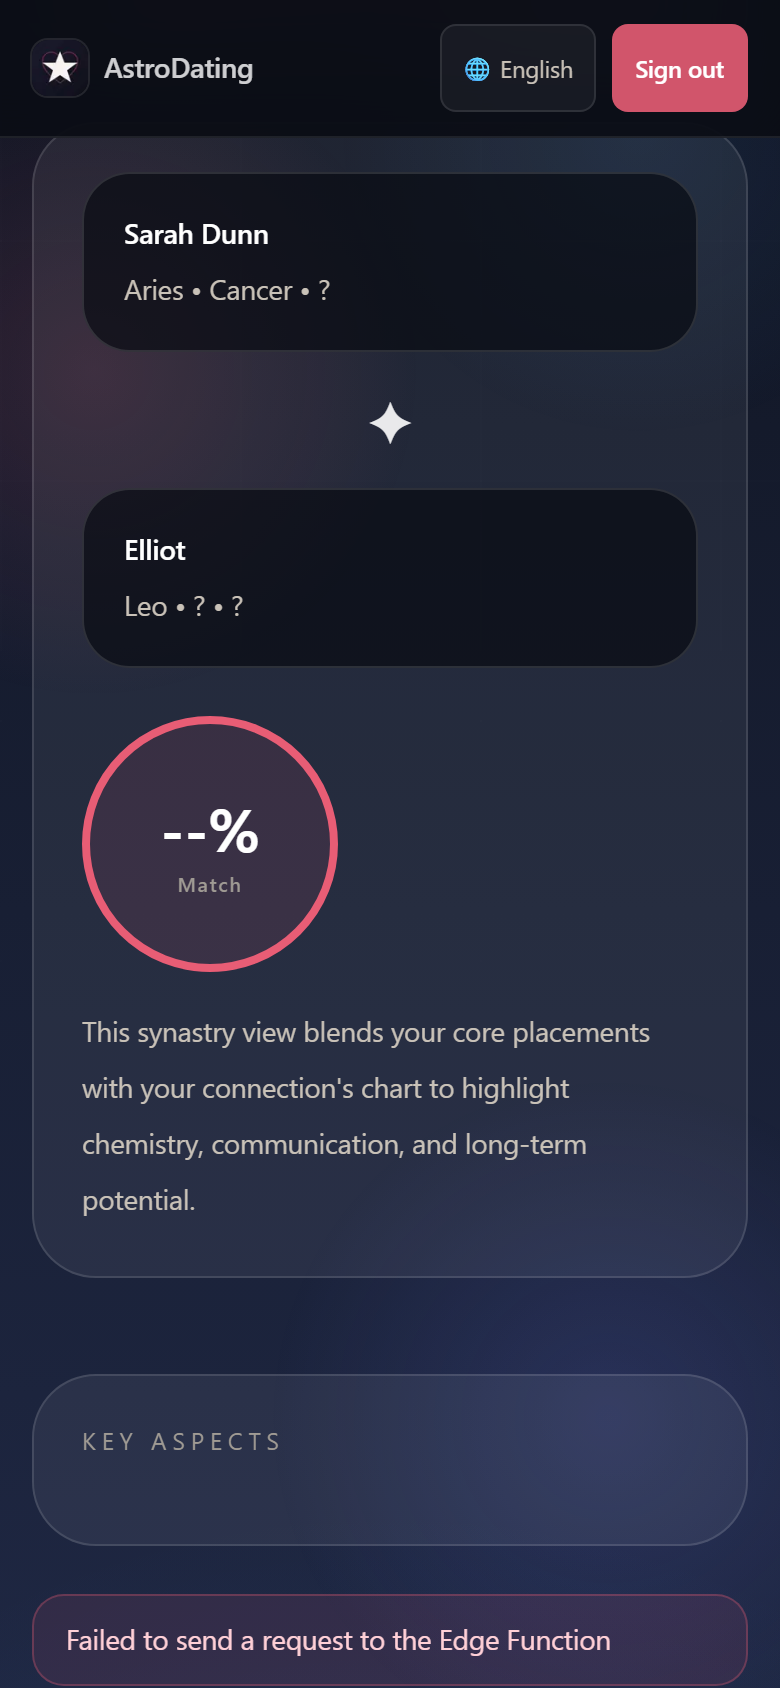
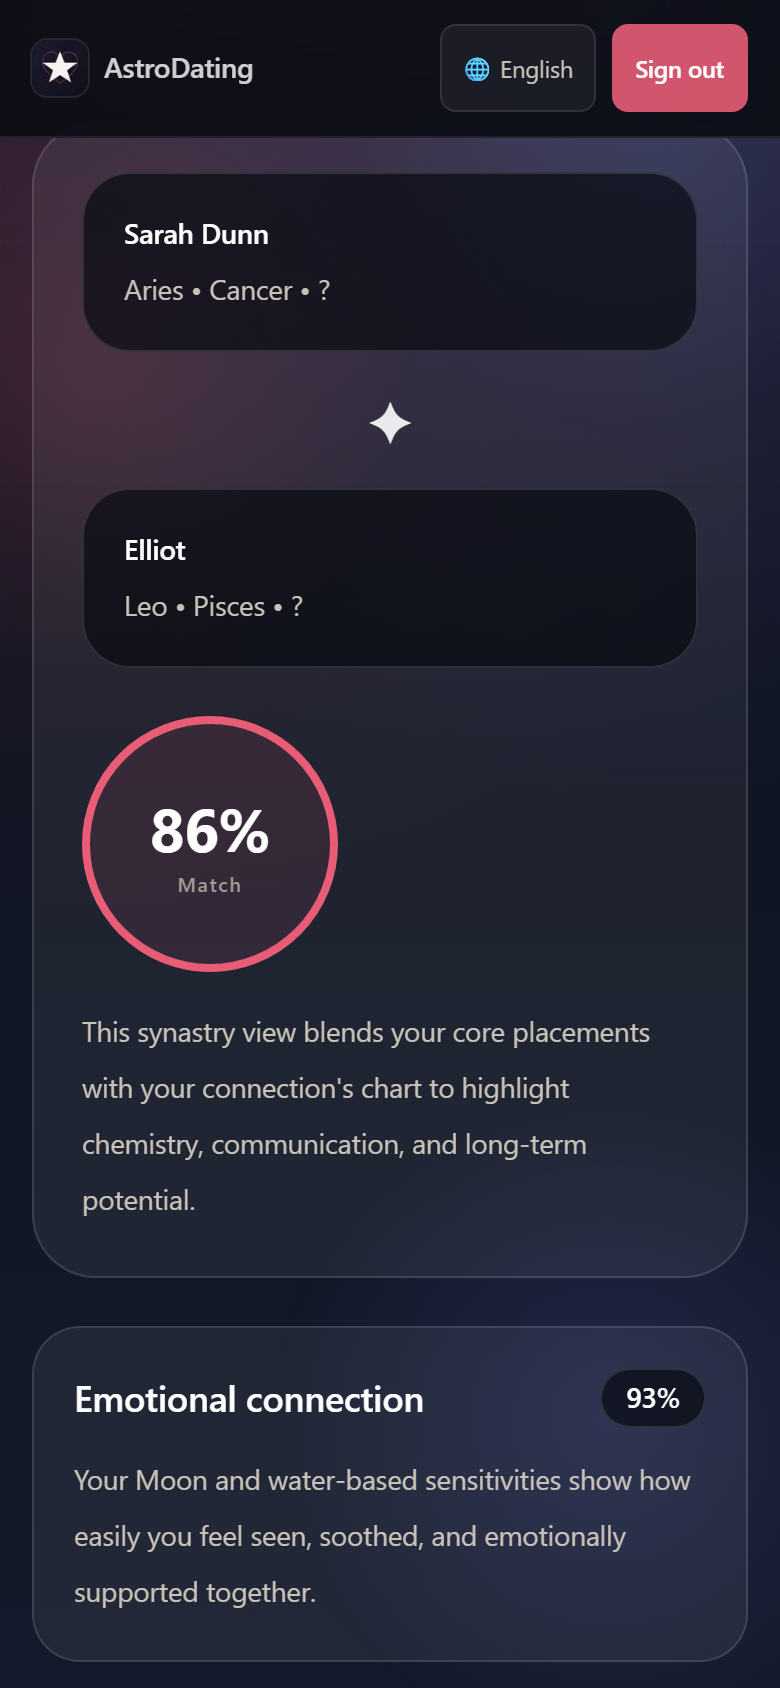
fix(edge): allow app.astrodatingapp.com origin on get-profile-chart
The CORS allowlist only included astrodatingapp.com and www.*, so calls
from the authenticated web app on app.* were blocked by the browser.
Synastry rendered --% because supabase.functions.invoke threw "Failed
to send a request to the Edge Function".

Aligned the CORS pattern with calculate-chart / create-checkout-session
(PROD_ORIGINS + DEV_ORIGINS + ENVIRONMENT switch), redeployed via
supabase CLI. Recaptured compatibility.png — now shows a real 86%
fallback score from the sun-sign element matrix instead of --%.

diff --git a/supabase/functions/get-profile-chart/index.ts b/supabase/functions/get-profile-chart/index.ts
@@ -89,16 +89,33 @@ function calculatePlanetPositions(time: any) {
 // CORS
 // ---------------------------------------------------------------------------
 
-const ALLOWED_ORIGINS = new Set<string>([
-  'https://astrodatingapp.com',
+// CORS origins. Pattern aligned with calculate-chart / create-checkout-session
+// / claim-referral so any new web subdomain is whitelisted in one place.
+// `https://app.astrodatingapp.com` MUST be included — the authenticated web
+// app runs there and was previously rejected, surfacing as
+// "Failed to send a request to the Edge Function" on the synastry page.
+const PROD_ORIGINS = [
   'https://www.astrodatingapp.com',
+  'https://astrodatingapp.com',
+  'https://app.astrodatingapp.com',
+]
+const DEV_ORIGINS = [
+  ...PROD_ORIGINS,
   'http://localhost:3000',
   'http://127.0.0.1:3000',
-])
+  'http://localhost:8081',
+  'http://localhost:19006',
+]
+const ALLOWED_ORIGINS = Deno.env.get('ENVIRONMENT') === 'production'
+  ? PROD_ORIGINS
+  : DEV_ORIGINS
 
 function getAllowedOrigin(origin: string | null): string {
-  if (origin && ALLOWED_ORIGINS.has(origin)) return origin
-  return 'https://astrodatingapp.com'
+  if (origin && ALLOWED_ORIGINS.includes(origin)) return origin
+  // Native mobile + Supabase relay calls have no Origin header — empty string
+  // means "no CORS allowance", which is correct: those code paths don't go
+  // through a browser CORS check anyway.
+  return ''
 }
 
 function corsHeaders(origin: string): HeadersInit {

diff --git a/docs/marketing/screenshot-seed-notes.md b/docs/marketing/screenshot-seed-notes.md
@@ -348,9 +348,26 @@ Storage: removing `e2e-user2-elliot.jpg` / `liam-discover.jpg` from the
 
 ---
 
-## Known unrelated bug (do not block on this)
+## Compatibility score CORS fix (2026-05-10)
 
-`compatibility.png` is captured on `/en/app/premium/celestial/synastry`,
-which calls the `get-profile-chart` edge function. That function
-currently fails in production, so the score renders as `--%`. Layout is
-otherwise clean. Fixing the edge function is tracked separately.
+`compatibility.png` previously rendered `--%` because the
+`get-profile-chart` edge function did not whitelist
+`https://app.astrodatingapp.com` in its CORS allowlist — only
+`astrodatingapp.com` and `www.*` were accepted, so the browser blocked
+the response and `supabase.functions.invoke` threw "Failed to send a
+request to the Edge Function".
+
+Fix: aligned `get-profile-chart`'s CORS pattern with
+`calculate-chart` / `create-checkout-session` / `claim-referral`
+(PROD_ORIGINS + DEV_ORIGINS + `ENVIRONMENT` env switch), which already
+include the `app.*` subdomain. After redeploy via
+`npx supabase functions deploy get-profile-chart --project-ref qtihezzbuubnyvrjdkjd`,
+the page now shows a real fallback score (86% for Aries↔Leo via the
+fire-element compatibility matrix). The chart itself is still empty
+because Elliot has no `birth_date` seeded — the score comes from
+sun-sign element matching, which is the documented fallback path.
+
+If you want richer aspects (Venus, Mars, Mercury, Saturn signs visible
+instead of falling back to Sun), seed `birth_date` + `birth_time` +
+`birth_latitude` / `birth_longitude` on `e2e_user2`. Out of scope for
+the current screenshot pass.
